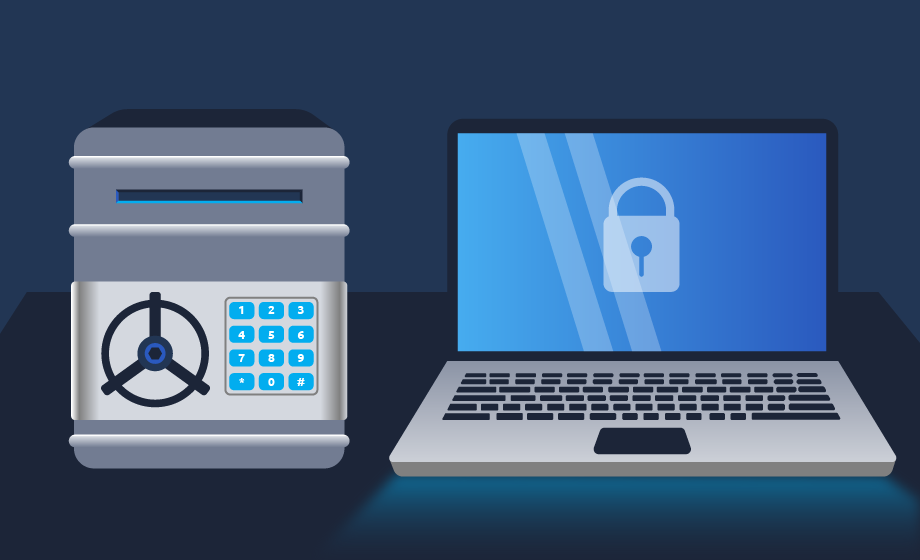
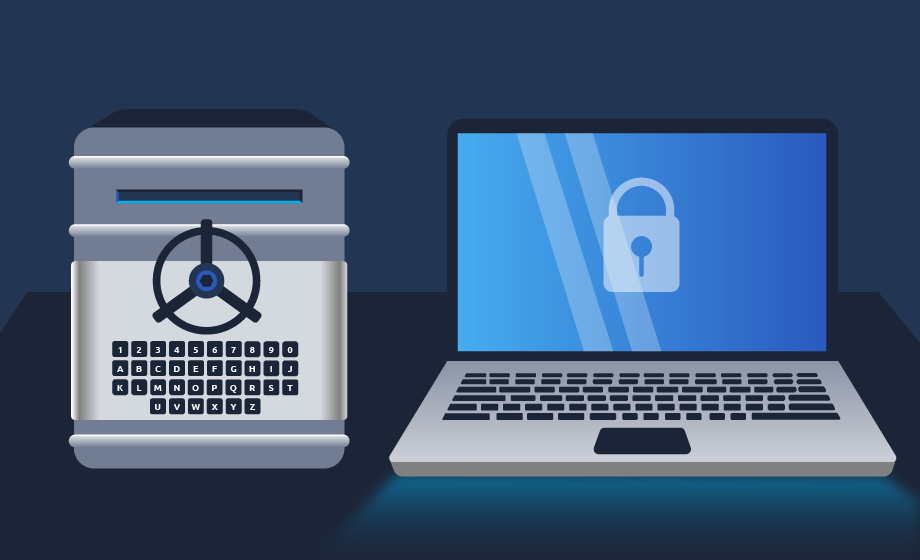
Case 1 - EA Office WIP

Changed region(s): [[0.0609, 0.3946, 0.3957, 0.7589]]

diff --git a/utility.js b/utility.js
@@ -8,6 +8,7 @@ const compoundAnchor = "#compoundAnchor";
 const santaOfficeAnchor = "#santaOfficeAnchor";
 const workshopAnchor = "#workshopAnchor";
 const deerAnchor = "#deerAnchor";
+const eaOfficeAnchor = "#eaOfficeAnchor";
 
 const homeButton = "#homeBtn";
 
@@ -61,6 +62,7 @@ const goHome = () => {
   $(santaOfficeAnchor).addClass("d-none");
   $(workshopAnchor).addClass("d-none");
   $(deerAnchor).addClass("d-none");
+  $(eaOfficeAnchor).addClass("d-none");
   $(compoundAnchor).removeClass("d-none");
 };
 
@@ -275,7 +277,9 @@ const compoundClick = event => {
     $(compoundAnchor).addClass("d-none");
     $(deerAnchor).removeClass("d-none");
   } else if (isWithin(base, EAOfficeCoords)) {
-    alert("Executive Management Office");
+    $(homeButton).removeClass("d-none");
+    $(compoundAnchor).addClass("d-none");
+    $(eaOfficeAnchor).removeClass("d-none");
   }
 };
 
@@ -291,22 +295,18 @@ const santaOfficeMouseover = event => {
   const { offsetX, offsetY } = event;
   const base = { offsetX, offsetY };
 
-  const santaOffice = $("#santaOffice");
+  const vault = $("#vault");
+
   if (isWithin(base, vaultCoords)) {
-    santaOffice.addClass("cursor-pointer");
-  } else if (santaOffice.hasClass("cursor-pointer")) {
-    santaOffice.removeClass("cursor-pointer");
+    vault.addClass("show");
+  } else if (vault.hasClass("show")) {
+    vault.removeClass("show");
   }
 };
 
-const santaOfficeClick = event => {
-  const { offsetX, offsetY } = event;
-  const base = { offsetX, offsetY };
-
-  if (isWithin(base, vaultCoords)) {
-    // modal with textbox and unlock button
-    santaModal.toggle();
-  }
+const clickVault = () => {
+  // modal with textbox and unlock button
+  santaModal.toggle();
 };
 
 const unlockVault = () => {
@@ -333,4 +333,66 @@ const copyFlag = () => {
   setTimeout(() => {
     tooltip.setContent({ ".tooltip-inner": "Copy to clipboard" });
   }, 2000);
+};
+
+/*******************************************
+ * *****************************************
+ * *************** EA Office ***************
+ * *****************************************
+ * *****************************************
+ */
+let drawerCoords = [117, 266, 220, 273];
+let envelopeCoords = [255, 410, 129, 190];
+let isDrawerOpen = false;
+
+const eaOfficeMouseover = event => {
+  const { offsetX, offsetY } = event;
+  const base = { offsetX, offsetY };
+
+  if (isDrawerOpen) {
+    const envelope = $("#envelope");
+    if (isWithin(base, envelopeCoords)) {
+      envelope.addClass("show");
+    } else if (envelope.hasClass("show")) {
+      envelope.removeClass("show");
+    }
+    return;
+  }
+
+  const drawer = $("#drawer");
+  if (isWithin(base, drawerCoords)) {
+    drawer.addClass("show");
+  } else if (drawer.hasClass("show")) {
+    drawer.removeClass("show");
+  }
+};
+
+const openDrawer = () => {
+  isDrawerOpen = true;
+  const drawer = $("#drawer");
+
+  // update headings
+  $("#ea-office-heading").addClass("d-none");
+  $("#drawer-heading").removeClass("d-none");
+
+  // update images
+  $("#ea-office-bg").addClass("d-none");
+  $("#open-drawer").removeClass("d-none");
+  if (drawer.hasClass("show")) {
+    drawer.removeClass("show");
+  }
+};
+
+const closeDrawer = () => {
+  isDrawerOpen = false;
+  // update headings
+  $("#drawer-heading").addClass("d-none");
+  $("#ea-office-heading").removeClass("d-none");
+
+  $("#ea-office-bg").removeClass("d-none");
+  $("#open-drawer").addClass("d-none");
+};
+
+const clickEnvelope = () => {
+  alert("Envelope Clicked");
 };

diff --git a/ea_office.html b/ea_office.html
@@ -1,0 +1,53 @@
+<div class="row">
+  <div class="col-md-12">
+    <div
+      id="instructions"
+      class="my-2 mx-0 border rounded bg-white text-dark p-2"
+    >
+      <h3>Instructions</h3>
+      <ol class="ps-3 mb-0">
+        <li>Open the drawer to get the <b>stack of papers</b>.</li>
+        <li>You should be able to see the Santa's Vault password in it.</li>
+        <li>Use the password to unlock the Santa's Vault.</li>
+      </ol>
+    </div>
+    <h2 id="ea-office-heading" class="text-center my-2">EA Office</h2>
+    <h2
+      id="drawer-heading"
+      onclick="closeDrawer()"
+      class="text-center my-2 d-flex align-items-center justify-content-center cursor-pointer d-none"
+    >
+      <i class="fas fa-xs fa-angle-left"></i>
+      <span class="d-block mb-1">&nbsp;Drawer</span>
+    </h2>
+  </div>
+  <div class="col-md-12">
+    <div
+      class="playground position-relative mx-auto"
+      onmousemove="eaOfficeMouseover(event)"
+    >
+      <img
+        id="ea-office-bg"
+        class="playground-bg w-100"
+        src="images/EA Office/EA Office - no glow.png"
+      />
+      <img
+        id="drawer"
+        onclick="openDrawer()"
+        class="position-absolute cursor-pointer overlay w-100"
+        src="images/EA Office/Glowing Draw.png"
+      />
+      <img
+        id="open-drawer"
+        class="playground-bg w-100 d-none"
+        src="images/EA Office/Draw - not glowing.png"
+      />
+      <img
+        id="envelope"
+        onclick="clickEnvelope()"
+        class="position-absolute cursor-pointer overlay w-100"
+        src="images/EA Office/Draw - glowing envelope.png"
+      />
+    </div>
+  </div>
+</div>

diff --git a/santa_office.html b/santa_office.html
@@ -16,12 +16,17 @@
     <div
       class="playground position-relative mx-auto"
       onmousemove="santaOfficeMouseover(event)"
-      onclick="santaOfficeClick(event)"
     >
       <img
         id="santaOffice"
         class="playground-bg w-100"
         src="images/Santa Office/Desk.png"
+      />
+      <img
+        id="vault"
+        onclick="clickVault()"
+        class="position-absolute cursor-pointer overlay w-100"
+        src="images/Santa Office/Glowing vault.png"
       />
     </div>
   </div>

diff --git a/script.js b/script.js
@@ -18,6 +18,7 @@ $(function() {
     santaModal = new bootstrap.Modal(document.getElementById("santaModal"), {});
   });
   $(deerAnchor).load("./deer_stable.html");
+  $(eaOfficeAnchor).load("./ea_office.html");
 
   const tooltips = document.querySelectorAll('[data-bs-toggle="tooltip"]');
   [...tooltips].map(t => new bootstrap.Tooltip(t));

diff --git a/index.html b/index.html
@@ -143,6 +143,7 @@
             <!-- Workshop End -->
 
             <!-- EA Office -->
+            <div id="eaOfficeAnchor" class="container-fluid pb-3 d-none"></div>
             <!-- EA Office End -->
 
             <!-- Deer Stable -->
